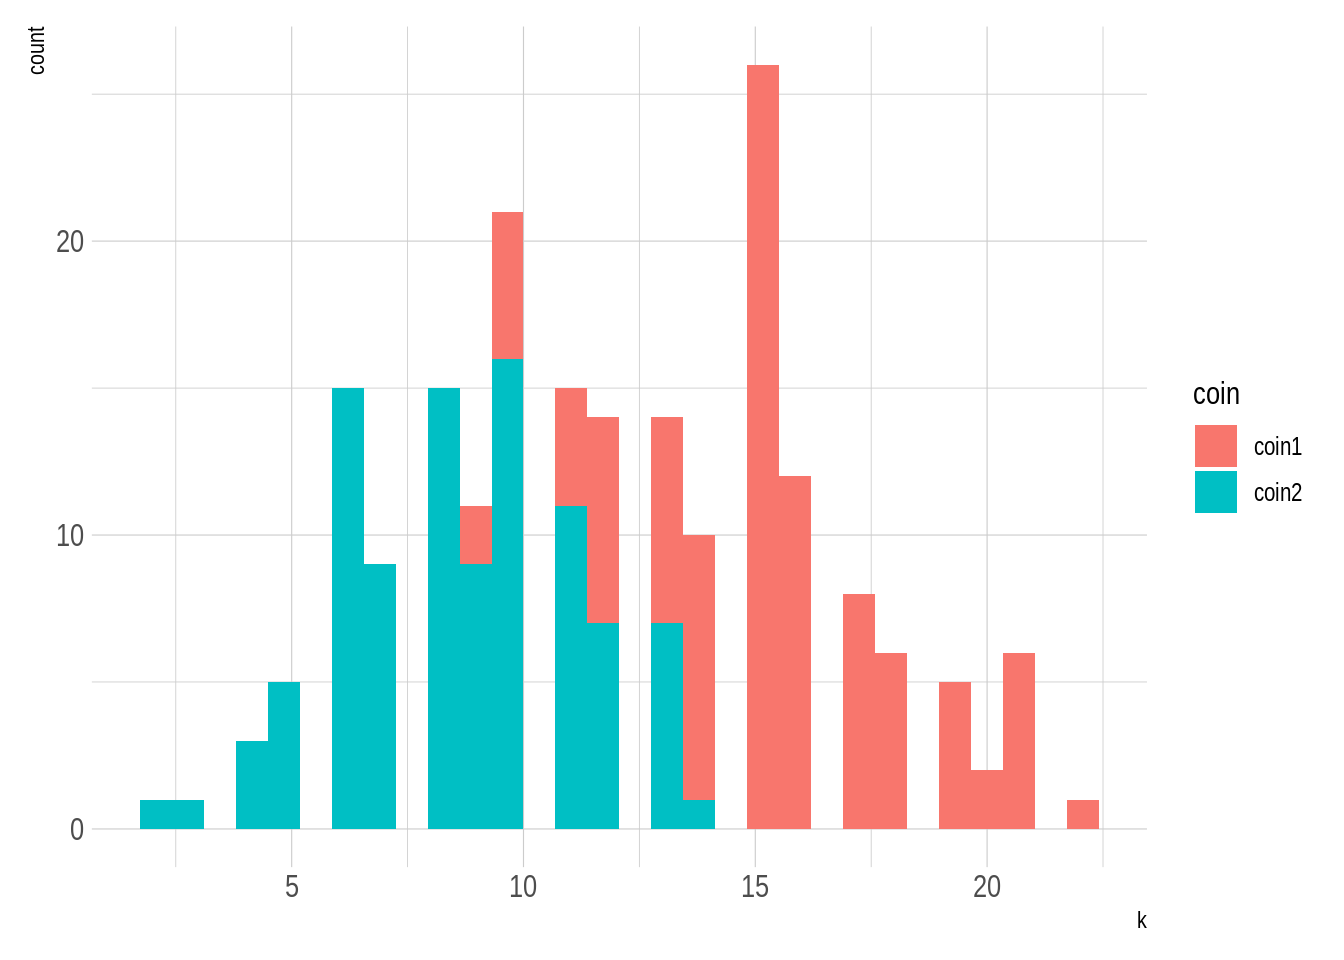
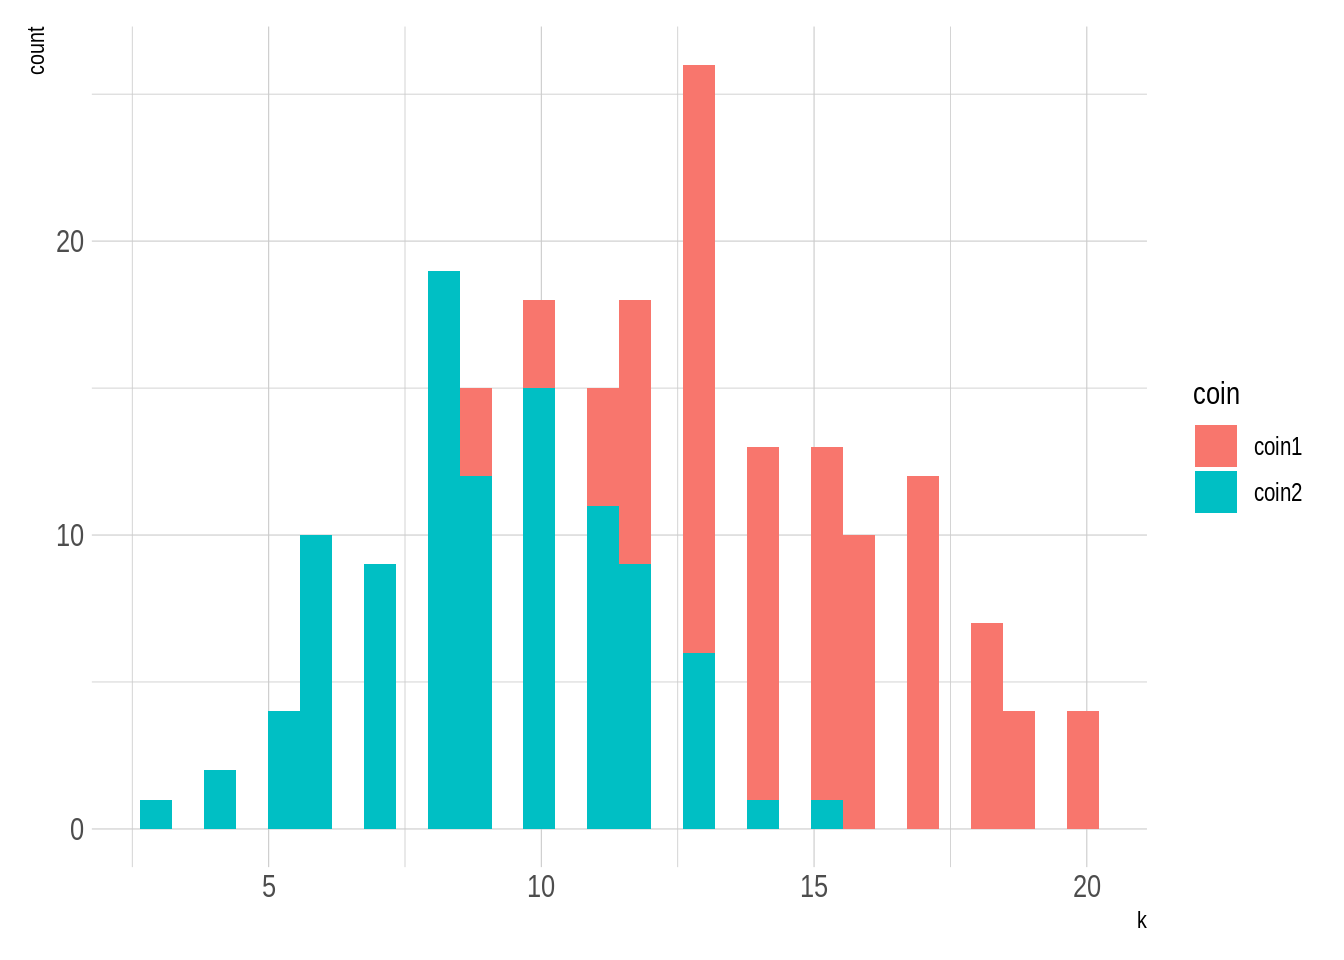
Deploy michael-franke/intro-data-analysis to github.com/michael-franke/intro-data-analysis.git:gh-pages

diff --git a/basics-of-probability-theory.html b/basics-of-probability-theory.html
@@ -296,7 +296,7 @@ if it comes up tails, we draw from urn 2.</p>
 <span class="math inline">\(\Omega_{\text{flip-&amp;-draw}} = \left \{ \langle \text{heads}, \text{black} \rangle, \langle \text{heads},  \text{white} \rangle, \langle \text{tails}, \text{black} \rangle, \langle \text{tails},  \text{white} \rangle \right \}\)</span>. The probability of event <span class="math inline">\(\langle \text{heads}, \text{black} \rangle\)</span> is given by
 multiplying the probability of seeing “heads” on the first flip, which happens with
 probability <span class="math inline">\(0.5\)</span>, and then drawing a black ball, which happens with probability <span class="math inline">\(0.2\)</span>, so that
-<span class="math inline">\(P(\langle \text{heads}, \text{black} \rangle) = 0.5 \cdot 0.2 = 0.1\)</span>. The probability distribution
+<span class="math inline">\(P(\langle \text{heads}, \text{black} \rangle) = 0.5 \times 0.2 = 0.1\)</span>. The probability distribution
 over <span class="math inline">\(\Omega_{\text{flip-draw}}\)</span> is consequently as in
 Table <a href="basics-of-probability-theory.html#tab:flipdrawprobabilities">3.1</a>. (If in doubt, start flipping &amp;
 drawing and count your outcomes.)</p>
@@ -312,13 +312,13 @@ drawing and count your outcomes.)</p>
 <tbody>
 <tr class="odd">
 <td>heads</td>
-<td align="left"><span class="math inline">\(0.5 \cdot 0.2 = 0.1\)</span></td>
-<td align="left"><span class="math inline">\(0.5 \cdot 0.4 = 0.2\)</span></td>
+<td align="left"><span class="math inline">\(0.5 \times 0.2 = 0.1\)</span></td>
+<td align="left"><span class="math inline">\(0.5 \times 0.4 = 0.2\)</span></td>
 </tr>
 <tr class="even">
 <td>tails</td>
-<td align="left"><span class="math inline">\(0.5 \cdot 0.8 = 0.4\)</span></td>
-<td align="left"><span class="math inline">\(0.5 \cdot 0.6 = 0.3\)</span></td>
+<td align="left"><span class="math inline">\(0.5 \times 0.8 = 0.4\)</span></td>
+<td align="left"><span class="math inline">\(0.5 \times 0.6 = 0.3\)</span></td>
 </tr>
 </tbody>
 </table>

diff --git a/part-4-models.html b/part-4-models.html
@@ -306,16 +306,16 @@ A prior is a initial probability assignment for each possible value of the param
 <pre><code>## # A tibble: 10 x 3
 ##        n     k     x
 ##    &lt;dbl&gt; &lt;dbl&gt; &lt;dbl&gt;
-##  1     1    10    30
-##  2     2    15    30
-##  3     3    18    30
-##  4     4    11    30
-##  5     5    18    30
-##  6     6    14    30
-##  7     7    15    30
-##  8     8    13    30
-##  9     9    10    30
-## 10    10    12    30</code></pre>
+##  1     1    12    30
+##  2     2    13    30
+##  3     3    15    30
+##  4     4    15    30
+##  5     5    15    30
+##  6     6    20    30
+##  7     7    12    30
+##  8     8    12    30
+##  9     9    15    30
+## 10    10    19    30</code></pre>
 <p>The above table shows the observed outcome, but how the underlying probability of coming up  can be derived from that data set?</p>
 </div>
 <div id="steps-of-data-analysis" class="section level3">
@@ -484,13 +484,13 @@ Consider now, that a second coin <span class="math inline">\(y_2\)</span> is int
 ##    coin      n     k     x
 ##    &lt;chr&gt; &lt;dbl&gt; &lt;dbl&gt; &lt;dbl&gt;
 ##  1 coin1     1    15    30
-##  2 coin1     2    15    30
-##  3 coin1     3    18    30
+##  2 coin1     2    12    30
+##  3 coin1     3    15    30
 ##  4 coin1     4    13    30
-##  5 coin1     5     9    30
-##  6 coin1     6    15    30
-##  7 coin1     7    15    30
-##  8 coin1     8    10    30
+##  5 coin1     5    16    30
+##  6 coin1     6    13    30
+##  7 coin1     7    14    30
+##  8 coin1     8    17    30
 ##  9 coin1     9    17    30
 ## 10 coin1    10    16    30
 ## # … with 190 more rows</code></pre>

diff --git a/index.html b/index.html
@@ -208,7 +208,7 @@ code span.wa { color: #bf0303; } /* Warning */
             <section class="normal" id="section-">
 <div id="header">
 <h1 class="title">Introduction to Data Analysis</h1>
-<p class="date"><em>last rendered at: 2019-09-21 14:42:01</em></p>
+<p class="date"><em>last rendered at: 2019-09-21 14:50:19</em></p>
 </div>
 <div id="preface" class="section level1 unnumbered">
 <h1>Preface</h1>
